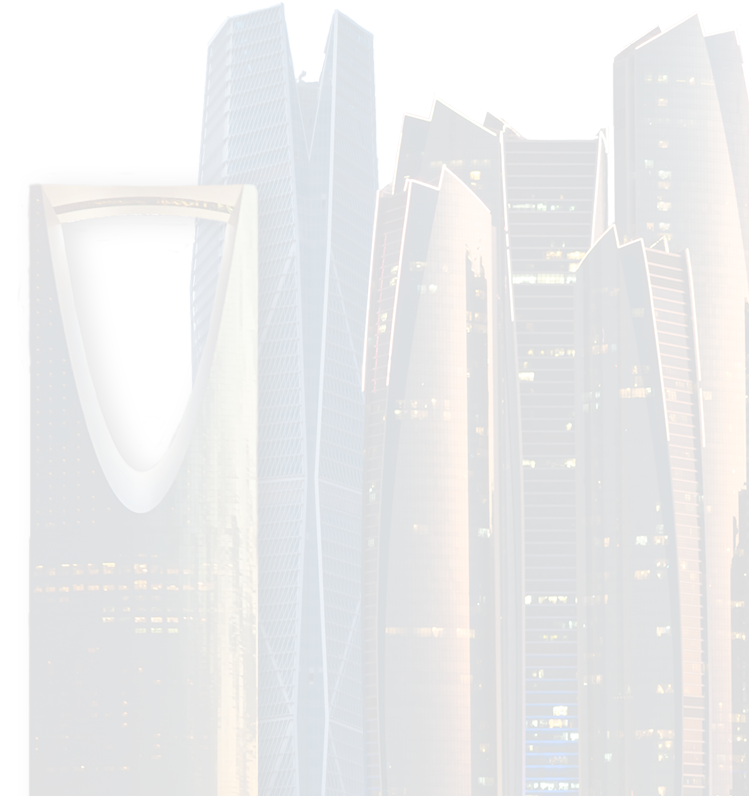
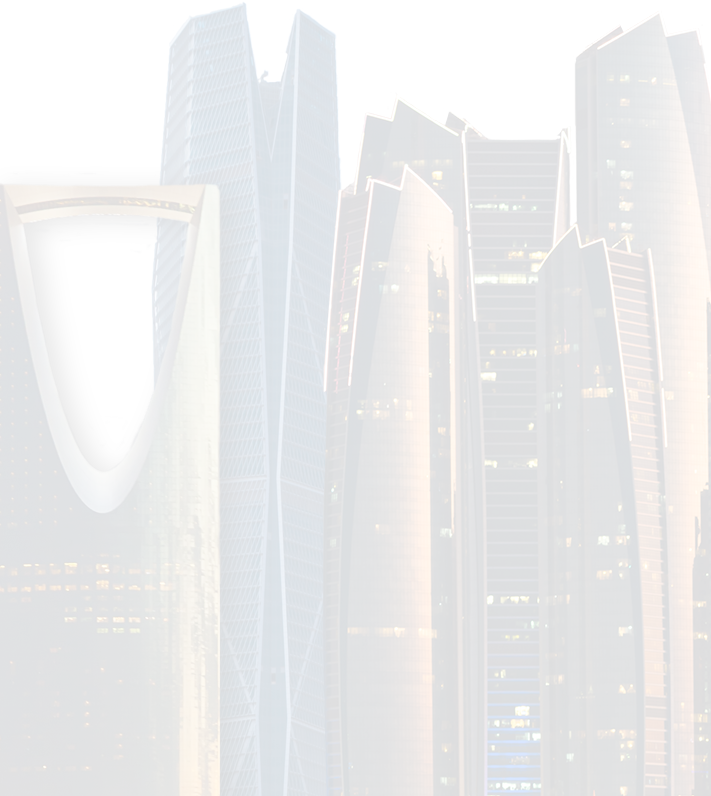
dist

diff --git a/src/app/pages/blank-layout/home/national-news/national-news.component.scss b/src/app/pages/blank-layout/home/national-news/national-news.component.scss
@@ -3,7 +3,7 @@
 }
 section {
   background-image: url("/assets/images/pages/home/pattern03.png");
-  background-size: 100% -40px;
-  background-position: bottom;
+  background-size: 50% 90%;
+  background-position: left bottom;
   background-repeat: no-repeat;
 }
